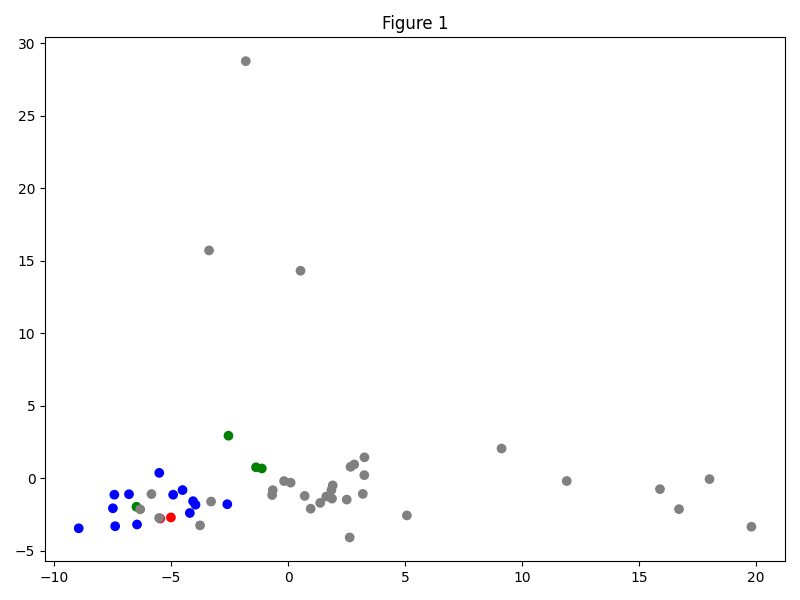
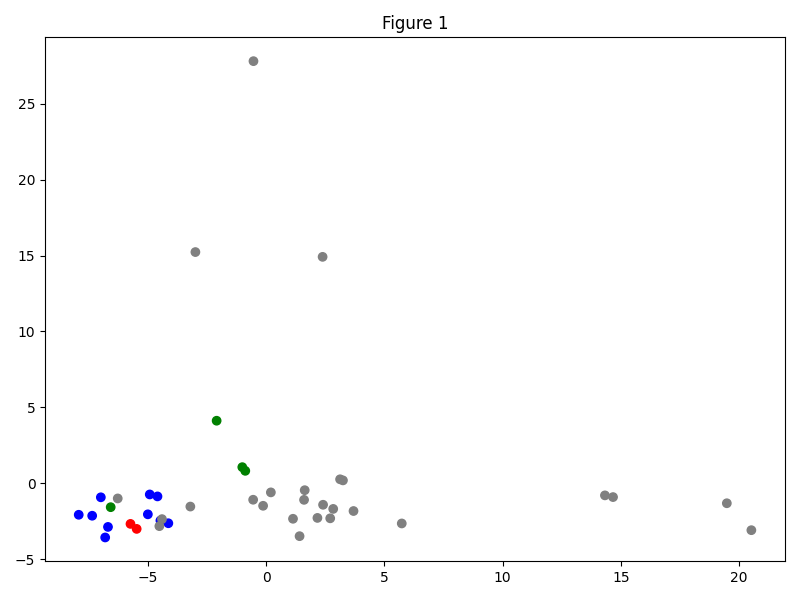
producing csv of cosine similarity

diff --git a/thesis.py b/thesis.py
@@ -1,10 +1,12 @@
 from read_text_utils import read_relevant_texts_in_chunks
 from word_utils import calculate_normalized_word_frequencies
-from function_word_utils import calculate_normalized_function_word_frequencies
+from function_word_utils import calculate_normalized_function_word_frequencies, calculate_raw_function_word_frequencies
 from scatter_plot_utils import generate_scatter_plot, generate_component_plot
 import pandas as pd
 import matplotlib.pyplot as plt
 from sklearn.decomposition import PCA
+from sklearn.metrics.pairwise import cosine_similarity
+from general_plot_utils import get_label_color
 
 """
 Generates figures for the thesis.
@@ -12,7 +14,7 @@ Generates figures for the thesis.
 PART 1: 500 most common words
 """
 
-MIN_CHUNK_SIZE = 1500
+MIN_CHUNK_SIZE = 2000
 
 book_to_text = read_relevant_texts_in_chunks(MIN_CHUNK_SIZE)
 for book, text in book_to_text.items():
@@ -31,7 +33,7 @@ book_to_normalized_word_frequency, words = calculate_normalized_word_frequencies
 
 print(words)
 
-#generate_scatter_plot(book_to_normalized_word_frequency, book_to_text.keys(), title="Figure 1", include_labels=True)
+#generate_scatter_plot(book_to_normalized_word_frequency, book_to_text.keys(), title="Figure 1", include_labels=False)
 #plt.show()
 #plt.close()
 
@@ -40,19 +42,38 @@ PART 2: remove non-function words and too-short texts
 """
 
 for book, text in list(book_to_text.items()):
-  if len(text.split()) < MIN_CHUNK_SIZE and book not in ['Ephesians', 'Colossians']:
+  if len(text.split()) < 1500 and book not in ['Ephesians', 'Colossians']:
     del book_to_text[book]
 
-# ιδου?
-# πλησιον? (adverb or noun)
-# δει?
-# καλως?
-# ενι? (preposition or noun)
-function_words = ['και', 'εν', 'του', 'ο', 'δε', 'το', 'εις', 'της', 'η', 'την', 'γαρ', 'τω', 'των', 'τον', 'αυτου', 'μη', 'οτι', 'ου', 'τα', 'εστιν', 'τη', 'ως', 'ουκ', 'ινα', 'οι', 'ημων', 'υμων', 'δια', 'εκ', 'τους', 'τοις', 'επι', 'ει', 'αλλα', 'υμας', 'αυτων', 'ουν', 'κατα', 'υμιν', 'μου', 'προς', 'απο', 'τις', 'τας', 'αυτω', 'σου', 'παντα', 'τουτο', 'αυτον', 'εαν', 'τι', 'αλλ', 'ημας', 'περι', 'δι', 'ουτως', 'υπο', 'υπερ', 'μετα', 'μεν', 'εγω', 'μοι', 'τε', 'ην', 'ημιν', 'εξ', 'ταις', 'καθως', 'ος', 'αυτοις', 'ταυτα', 'με', 'ων', 'εισιν', 'ουδε', 'ω', 'αυτους', 'αυτος', 'ειναι', 'υμεις', 'ουτε', 'νυν', 'παντες', 'παλιν', 'παντων', 'ημεις', 'σε', 'αυτης', 'ουχ', 'πως', 'επ', 'αυτη', 'μαλλον', 'α', 'αι', 'ον', 'μονον', 'σοι', 'ενωπιον', 'αν', 'οταν', 'ετι', 'παρα', 'πασιν', 'ειτε', 'ιδου', 'αυτο', 'παντας', 'συ', 'εμοι', 'παν', 'εαυτους', 'ωστε', 'ουδεν', 'κατ', 'αυτην', 'συν', 'εστε', 'εσται', 'μετ', 'ειμι', 'ωσπερ', 'διο', 'οτε', 'παντι', 'εμου', 'αυτοι', 'ης', 'δει', 'πας', 'καθ', 'εφ', 'απ', 'τουτου', 'εσμεν', 'χωρις', 'μηδε', 'πασαν', 'εαυτον', 'ουτος', 'αμην', 'παση', 'τοτε', 'αλληλους', 'τινες', 'πασης', 'τινα', 'εαυτου', 'ουτοι', 'τουτω', 'επει', 'ποτε', 'εαυτοις', 'παντος', 'αυτα', 'καγω', 'ουδεις', 'αρα', 'εως', 'εκαστος', 'τουτων', 'αφ', 'παρ', 'οιτινες', 'εαυτων', 'που', 'πασα', 'πρωτον', 'προ', 'παντοτε', 'ενος', 'μηδεν', 'ηδη', 'καλως', 'οντες', 'οπως', 'ητις', 'πολλοι', 'μεθ', 'πολλα', 'οπου', 'αχρι', 'εμε', 'τουτοις', 'πολλων', 'εαυτω', 'ενα', 'ουχι', 'μητε', 'ουκετι', 'οντα', 'ενι', 'αληθως', 'οσα', 'υπ', 'γε', 'ομοιως', 'εκει', 'ταυτην', 'ουαι', 'μια', 'ητε', 'τουτον', 'νυνι', 'ειτα', 'οθεν', 'πλησιον', 'τριτον', 'μηδεις', 'ετερον', 'εμπροσθεν', 'οσοι', 'μεχρι', 'τινος', 'αρτι', 'οσον', 'μεγα', 'τινι', 'τουτ', 'σεαυτον', 'μαλιστα', 'αμα', 'ναι', 'εγγυς', 'μονος', 'καθαπερ']
+function_words = ['και', 'εν', 'του', 'ο', 'δε', 'το', 'εις', 'της', 'η', 'την', 'γαρ', 'τω', 'των', 'τον', 'αυτου', 'μη', 'οτι', 'ου', 'τα', 'εστιν', 'τη', 'ως', 'ουκ', 'ινα', 'οι', 'ημων', 'υμων', 'δια', 'εκ', 'τους', 'τοις', 'επι', 'ει', 'αλλα', 'υμας', 'αυτων', 'ουν', 'κατα', 'υμιν', 'μου', 'προς', 'απο', 'τις', 'τας', 'αυτω', 'σου', 'παντα', 'τουτο', 'αυτον', 'εαν', 'τι', 'αλλ', 'ημας', 'περι', 'δι', 'ουτως', 'υπο', 'υπερ', 'μετα', 'μεν', 'εγω', 'μοι', 'τε', 'ην', 'ημιν', 'εξ', 'ταις', 'καθως', 'ος', 'αυτοις', 'ταυτα', 'με', 'ων', 'εισιν', 'ουδε', 'ω', 'αυτους', 'αυτος', 'ειναι', 'υμεις', 'ουτε', 'νυν', 'παντες', 'παλιν', 'παντων', 'ημεις', 'σε', 'αυτης', 'ουχ', 'πως', 'επ', 'αυτη', 'μαλλον', 'α', 'αι', 'ον', 'μονον', 'σοι', 'ενωπιον', 'αν', 'οταν', 'ετι', 'παρα', 'πασιν', 'ειτε', 'ιδου', 'αυτο', 'παντας', 'συ', 'εμοι', 'παν', 'εαυτους', 'ωστε', 'ουδεν', 'κατ', 'αυτην', 'συν', 'εστε', 'εσται', 'μετ', 'ειμι', 'ωσπερ', 'διο', 'οτε', 'παντι', 'εμου', 'αυτοι', 'ης', 'πας', 'καθ', 'εφ', 'απ', 'τουτου', 'εσμεν', 'χωρις', 'μηδε', 'πασαν', 'εαυτον', 'ουτος', 'αμην', 'παση', 'τοτε', 'αλληλους', 'τινες', 'πασης', 'τινα', 'εαυτου', 'ουτοι', 'τουτω', 'επει', 'ποτε', 'εαυτοις', 'παντος', 'αυτα', 'καγω', 'ουδεις', 'αρα', 'εως', 'εκαστος', 'τουτων', 'αφ', 'παρ', 'οιτινες', 'εαυτων', 'που', 'πασα', 'πρωτον', 'προ', 'παντοτε', 'ενος', 'μηδεν', 'ηδη', 'καλως', 'οντες', 'οπως', 'ητις', 'πολλοι', 'μεθ', 'πολλα', 'οπου', 'αχρι', 'εμε', 'τουτοις', 'πολλων', 'εαυτω', 'ενα', 'ουχι', 'μητε', 'ουκετι', 'οντα', 'ενι', 'αληθως', 'οσα', 'υπ', 'γε', 'ομοιως', 'εκει', 'ταυτην', 'ουαι', 'μια', 'ητε', 'τουτον', 'νυνι', 'ειτα', 'οθεν', 'πλησιον', 'τριτον', 'μηδεις', 'ετερον', 'εμπροσθεν', 'οσοι', 'μεχρι', 'τινος', 'αρτι', 'οσον', 'μεγα', 'τινι', 'τουτ', 'σεαυτον', 'μαλιστα', 'αμα', 'ναι', 'εγγυς', 'μονος', 'καθαπερ']
 
 book_to_normalized_word_frequency = calculate_normalized_function_word_frequencies(
   book_to_text, function_words, NORMALIZATION_METHOD)
 
-generate_scatter_plot(book_to_normalized_word_frequency, book_to_text.keys(), title="Figure 2a")
-generate_component_plot(book_to_normalized_word_frequency, function_words, title="Figure 2b")
-plt.show()
+#generate_scatter_plot(book_to_normalized_word_frequency, book_to_text.keys(), title="Figure 2a")
+#generate_component_plot(book_to_normalized_word_frequency, function_words, title="Figure 2b")
+#plt.show()
+
+# Calculate distances using Cosine Delta
+distances = cosine_similarity(book_to_normalized_word_frequency)
+book_names = list(book_to_text.keys())
+df = pd.DataFrame(distances, index=book_names, columns=book_names)
+df.to_csv('distances.csv')
+
+# graph paul markers
+colors = [get_label_color(b) for b in book_to_text.keys()]
+for word in  ['δε', 'τουτο']:
+  frequencies = calculate_raw_function_word_frequencies(book_to_text, [word])
+
+  fig = plt.figure(1, figsize=(8, 6))
+  ax = fig.add_subplot()
+
+  bars = zip(book_to_text.keys(), [f[0] for f in frequencies], colors)
+
+  for x, y, color in sorted(bars, key=lambda x: x[1]):
+    ax.bar(x, y, color=color)
+
+  plt.xticks(rotation='vertical')
+  plt.ylabel('Frequency of usage of ' + word)
+  fig.tight_layout()
+  #plt.show()

diff --git a/read_text_utils.py b/read_text_utils.py
@@ -16,21 +16,41 @@ def read_relevant_texts_in_chunks(chunk_size):
   septuagint_book_to_text = read_text_from_directory('septuagint')
   book_to_text['Epistle of Jeremiah'] = septuagint_book_to_text['Epistle of Jeremiah']
 
-  book_to_text['Paul A'] = ' '.join([book_to_text['1 Thessalonians'], book_to_text['Philemon']])
-  del book_to_text['1 Thessalonians']
-  del book_to_text['Philemon']
+  if chunk_size == 1500:
+    book_to_text['Paul A'] = ' '.join([book_to_text['1 Thessalonians'], book_to_text['Philemon']])
+    del book_to_text['1 Thessalonians']
+    del book_to_text['Philemon']
 
-  book_to_text['Ignatius A'] = ' '.join([book_to_text['Ignatius Polycarp'], book_to_text['Ignatius Smyrnaeans']])
-  del book_to_text['Ignatius Polycarp']
-  del book_to_text['Ignatius Smyrnaeans']
+    book_to_text['Ignatius A'] = ' '.join([book_to_text['Ignatius Polycarp'], book_to_text['Ignatius Smyrnaeans']])
+    del book_to_text['Ignatius Polycarp']
+    del book_to_text['Ignatius Smyrnaeans']
 
-  book_to_text['Ignatius B'] = ' '.join([book_to_text['Ignatius Magnesians'], book_to_text['Ignatius Trallians']])
-  del book_to_text['Ignatius Magnesians']
-  del book_to_text['Ignatius Trallians']
+    book_to_text['Ignatius B'] = ' '.join([book_to_text['Ignatius Magnesians'], book_to_text['Ignatius Trallians']])
+    del book_to_text['Ignatius Magnesians']
+    del book_to_text['Ignatius Trallians']
 
-  book_to_text['Ignatius C'] = ' '.join([book_to_text['Ignatius Philadelphians'], book_to_text['Ignatius Romans']])
-  del book_to_text['Ignatius Philadelphians']
-  del book_to_text['Ignatius Romans']
+    book_to_text['Ignatius C'] = ' '.join([book_to_text['Ignatius Philadelphians'], book_to_text['Ignatius Romans']])
+    del book_to_text['Ignatius Philadelphians']
+    del book_to_text['Ignatius Romans']
+
+  elif chunk_size >= 2000:
+    book_to_text['Paul A'] = ' '.join([book_to_text['1 Thessalonians'], book_to_text['Philippians'], book_to_text['Philemon']])
+    del book_to_text['1 Thessalonians']
+    del book_to_text['Philemon']
+    del book_to_text['Philippians']
+
+    book_to_text['Ignatius A'] = ' '.join([book_to_text['Ignatius Ephesians'], book_to_text['Ignatius Polycarp']])
+    del book_to_text['Ignatius Polycarp']
+    del book_to_text['Ignatius Ephesians']
+
+    book_to_text['Ignatius B'] = ' '.join([book_to_text['Ignatius Smyrnaeans'], book_to_text['Ignatius Philadelphians']])
+    del book_to_text['Ignatius Smyrnaeans']
+    del book_to_text['Ignatius Philadelphians']
+
+    book_to_text['Ignatius C'] = ' '.join([book_to_text['Ignatius Magnesians'], book_to_text['Ignatius Romans'], book_to_text['Ignatius Trallians']])
+    del book_to_text['Ignatius Magnesians']
+    del book_to_text['Ignatius Romans']
+    del book_to_text['Ignatius Trallians']
 
   # The following texts are not epistles, so we don't want them.
   del book_to_text['Clement 2 Corinthians']
